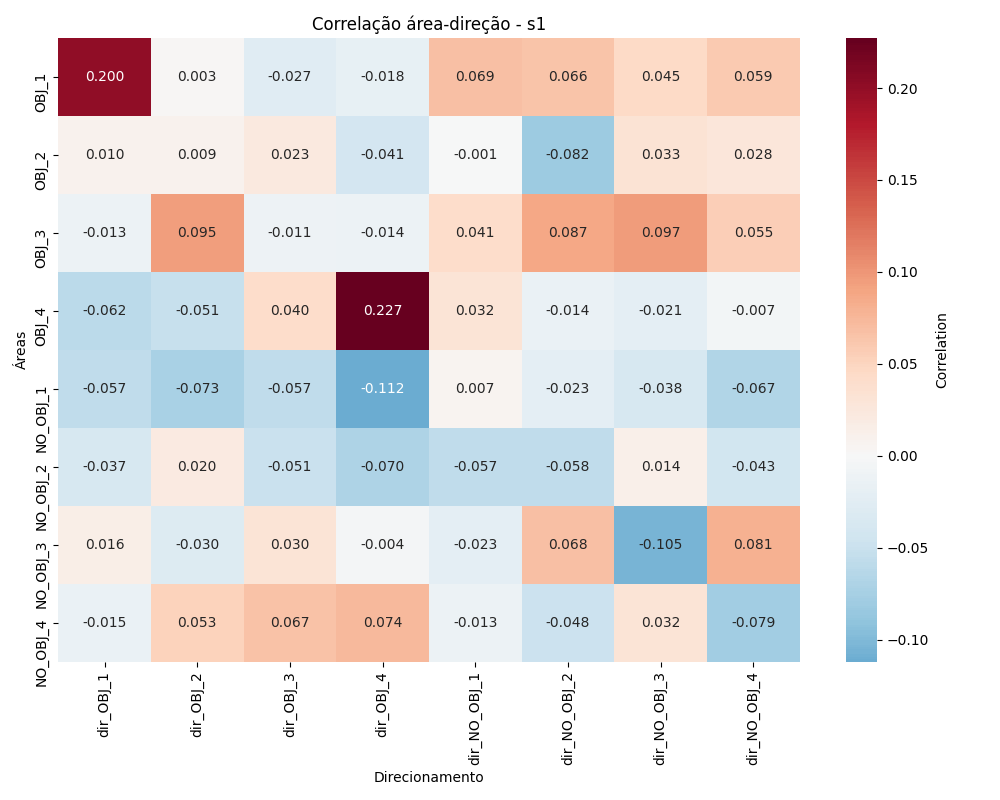
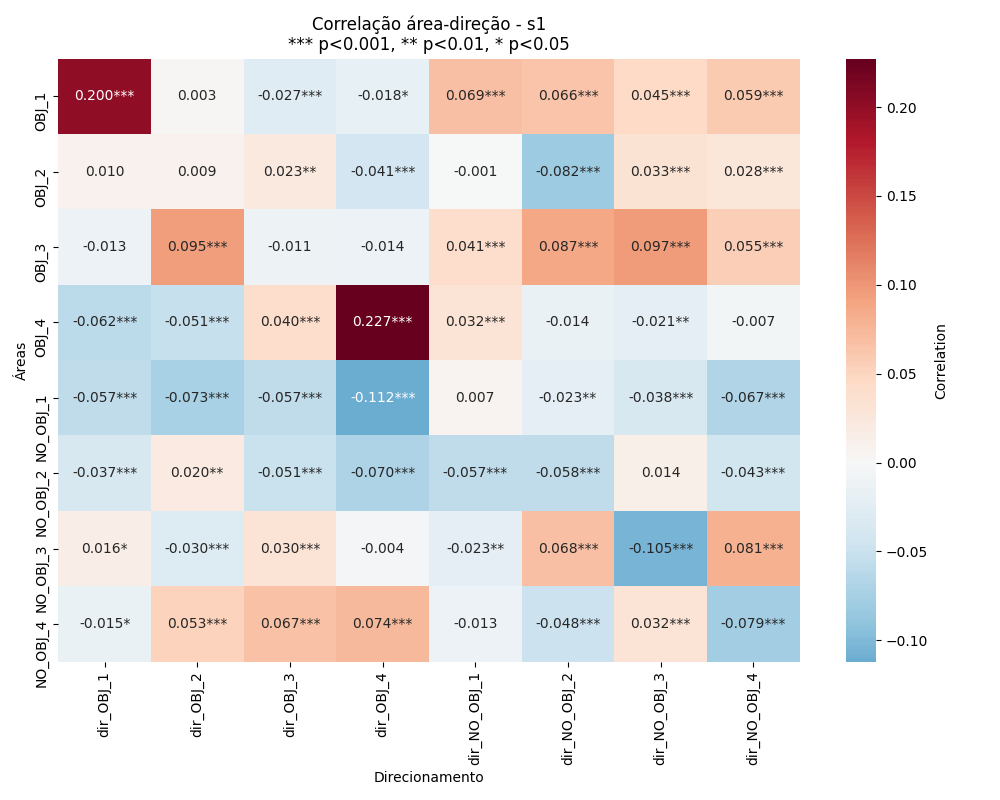
correlação p

diff --git a/scripts/areas.py b/scripts/areas.py
@@ -3,7 +3,7 @@ import pandas as pd
 import numpy as np
 import matplotlib.pyplot as plt
 import seaborn as sns
-from scipy.stats import chi2_contingency, fisher_exact, chi2
+from scipy.stats import chi2_contingency, fisher_exact, chi2, pearsonr
 from statsmodels.stats.contingency_tables import StratifiedTable
 from scipy.stats import mannwhitneyu, ttest_ind, shapiro
 from itertools import combinations
@@ -107,19 +107,35 @@ def rearing_direction_relationship(df, session_type):
     area_columns, direction_columns = get_area_and_direction_columns(df, session_type)
     
     correlation_matrix = np.zeros((len(area_columns), len(direction_columns)))
-    
+    p_value_matrix = np.ones((len(area_columns), len(direction_columns)))
     
     rearing_df = get_rearing(df)
     for i, rearing_area in enumerate(area_columns):
         for j, direction_area in enumerate(direction_columns):
-            corr = rearing_df[rearing_area].corr(rearing_df[direction_area])
+            corr, p_val = pearsonr(rearing_df[rearing_area], rearing_df[direction_area])
             correlation_matrix[i, j] = corr if not np.isnan(corr) else 0
+            p_value_matrix[i, j] = p_val if not np.isnan(p_val) else 1
+
+    annotation_matrix = np.empty_like(correlation_matrix, dtype=object)
+    for i in range(len(area_columns)):
+        for j in range(len(direction_columns)):
+            corr_val = correlation_matrix[i, j]
+            p_val = p_value_matrix[i, j]
+            
+            if p_val < 0.001:
+                annotation_matrix[i, j] = f'{corr_val:.3f}***'
+            elif p_val < 0.01:
+                annotation_matrix[i, j] = f'{corr_val:.3f}**'
+            elif p_val < 0.05:
+                annotation_matrix[i, j] = f'{corr_val:.3f}*'
+            else:
+                annotation_matrix[i, j] = f'{corr_val:.3f}'
 
     plt.figure(figsize=(10, 8))
-    sns.heatmap(correlation_matrix, annot=True, fmt='.3f', cmap='RdBu_r', center=0,
+    sns.heatmap(correlation_matrix, annot=annotation_matrix, fmt='', cmap='RdBu_r', center=0,
                 xticklabels=direction_columns, yticklabels=area_columns,
                 cbar_kws={'label': 'Correlation'})
-    plt.title(f'Correlação área-direção - {session_type}')
+    plt.title(f'Correlação área-direção - {session_type}\n*** p<0.001, ** p<0.01, * p<0.05')
     plt.xlabel('Direcionamento')
     plt.ylabel('Áreas')
     

diff --git a/scripts/analysis.py b/scripts/analysis.py
@@ -26,9 +26,9 @@ def analyze_session(df, session_type):
     # mean_rears_per_area(session_df, session_type)
     # rearing_direction_relationship(session_df, session_type)
 
-    # glmm(session_df, session_type)
+    glmm(session_df, session_type)
     # logistic(session_df, session_type)
-    latent_class(session_df, session_type)
+    # latent_class(session_df, session_type)
 
 
 
